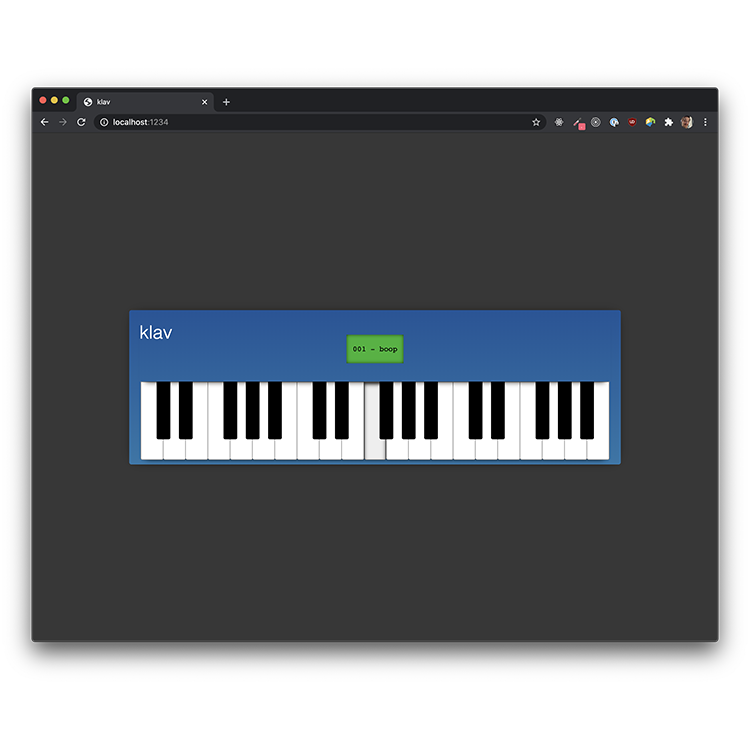
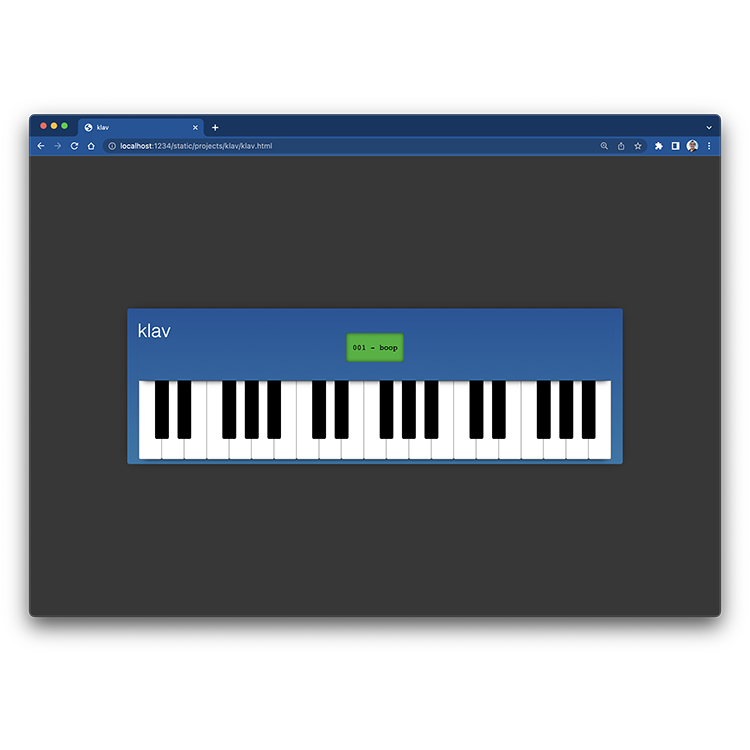
Updated several project card images and added js3d physics project

Changed region(s): [[0.0307, 0.092, 0.9813, 0.8893], [0.1533, 0.46, 0.828, 0.6133], [0.184, 0.4293, 0.2453, 0.46]]

diff --git a/src/projects/index.js b/src/projects/index.js
@@ -33,13 +33,13 @@ const projects = [
   },
 
   {
-    "name": "NeuroCreator",
-    "description": "A prototype of an NFT minting tool. Uses three.js for realtime 3D, ethers.js for integration with the Ethereum blockchain, and IPFS for decentralized file storage.",
-    "image": require("./neurocreator/card-img.png"),
+    "name": "JS 3D Physic Demo",
+    "description": "An interactive physics demo integrating three.js for 3D rendering with Ammo.js for physics.",
+    "image": require("./js3d-phys/card-img.png"),
     "buttons": [
       {
-        "title": "Go to Creator",
-        "url": "https://creator.nrnm.link/",
+        "title": "View Demo",
+        "url": "/static/projects/js3d-phys/dist/index.html",
         "type": "secondary"
       }
     ]
@@ -59,6 +59,19 @@ const projects = [
         "title": "View Repo",
         "url": "https://github.com/michael-hamilton/OhEssNine",
         "type": "info"
+      }
+    ]
+  },
+
+  {
+    "name": "NeuroCreator",
+    "description": "A prototype of an NFT minting tool. Uses three.js for realtime 3D, ethers.js for integration with the Ethereum blockchain, and IPFS for decentralized file storage.",
+    "image": require("./neurocreator/card-img.png"),
+    "buttons": [
+      {
+        "title": "Go to Creator",
+        "url": "https://creator.nrnm.link/",
+        "type": "secondary"
       }
     ]
   },

diff --git a/README.md b/README.md
@@ -51,5 +51,8 @@ A project object is of the following shape:
 }
 ```
 
+Project images should be formatted to size w750px/h750px.
+Web screenshots are taken at w1200px/h800px
+
 ## Acknowledgement
 Made with love by [Michael Hamilton](https://miska.me).
